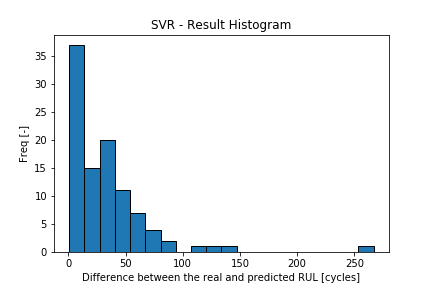
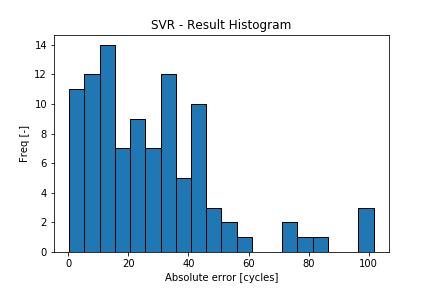
Readme finalized

diff --git a/README.md b/README.md
@@ -1,5 +1,5 @@
 # Aircraft engine failure prediction model
-I tried to predict the RUL values for the 100 trajectories in the FD003 dataset [Turbofan Engine Degradation Simulation Data Set](https://ti.arc.nasa.gov/tech/dash/groups/pcoe/prognostic-data-repository/#turbofan) using two different models (neural network and support vector machine).
+I tried to predict the RUL values for the 100 trajectories in the FD003 dataset from [Turbofan Engine Degradation Simulation Data Set](https://ti.arc.nasa.gov/tech/dash/groups/pcoe/prognostic-data-repository/#turbofan) using two different models (neural network and support vector machine).
 My code can be found in the `turbofan.ipynb` file.
 
 ## Data Preparation, Feature Engineering
@@ -11,11 +11,11 @@ I used the formula (3) in [1] to normalize each feature and then selected only f
 The first model is a neural network implemented using `DNNRegressor` from the TensorFlow library. After some experimenting, I decided to use a network with 3 hidden layers containing 15, 30, and 15 units.
 
 ## Support Vector Machine
-To use a Support vector machine (SVM) is suggested in [2]. The authors recommend to use non-linear radial basis (RBF) function.
+Use of a Support vector machine (SVM) model is suggested in [2]. The authors recommend to use non-linear radial basis (RBF) function.
 SVM model is provided in the Scikit library. I used the default setting with the RBF kernel function.
 
 ## Results
-I used three different metrics to assess the prediction for each model. Mean square error (MSE), median of absolute differences between the real and predicted RULs, and the score defined by formula (11) in [3].
+I chose three different metrics to assess the prediction for each model. Mean square error (MSE), median of absolute differences between the real and predicted RULs, and the Score in [3]. I modified the Score formula (11) in [3] by dividing the overall value by the number of testing samples.
 
 | Metric                     | Neural Network | SVM   |
 | -------------------------- |:--------------:| -----:|
@@ -24,8 +24,13 @@ I used three different metrics to assess the prediction for each model. Mean squ
 | Score                      | 3.89e9         | 659.8 |
 
 ![Example](img/scatter_nnr.png)
-![Example](img/hist_nnr.png)
 ![Example](img/scatter_svm.png)
-![Example](img/hist_svm.png)
+![Example](img/hist.png)
 
-### SVM Performance
+## Conclusions
+All three metrics show the SVM as the better performing model. The large difference in the Score is caused by the neural network model "overshooting" (the predicted RUL is greater than the real value) which the Score function heavily penalizes [3].
+
+## References
+* [[1] Data driven prognostics using a Kalman filter ensemble of neural network models](http://ieeexplore.ieee.org/document/4711423/) 
+* [[2] PHM-Oriented Integrated Fusion Prognostics for Aircraft Engines Based on Sensor Data](http://ieeexplore.ieee.org/document/6678166/) 
+* [[3] Damage Propagation Modeling for Aircraft Engine Run-to-Failure Simulation](http://ieeexplore.ieee.org/document/4711414/) 
